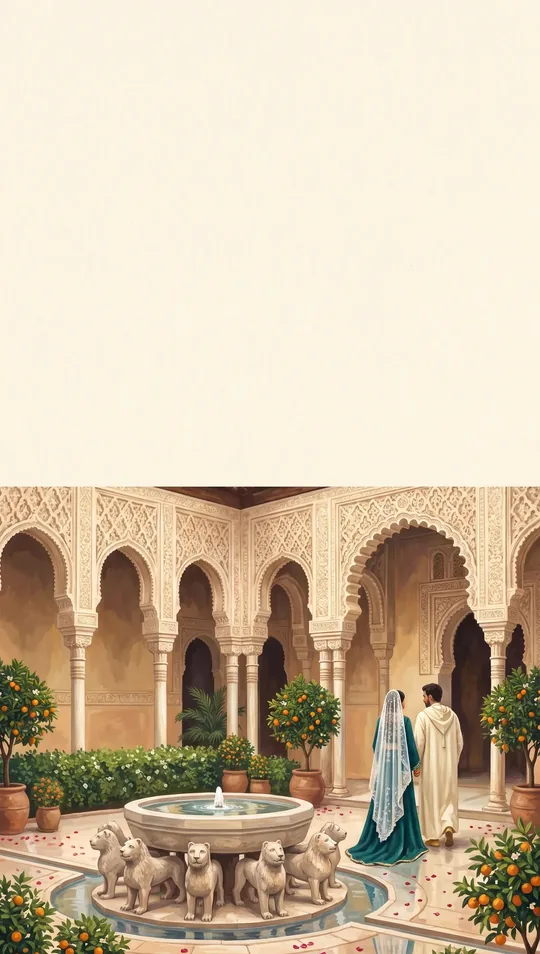
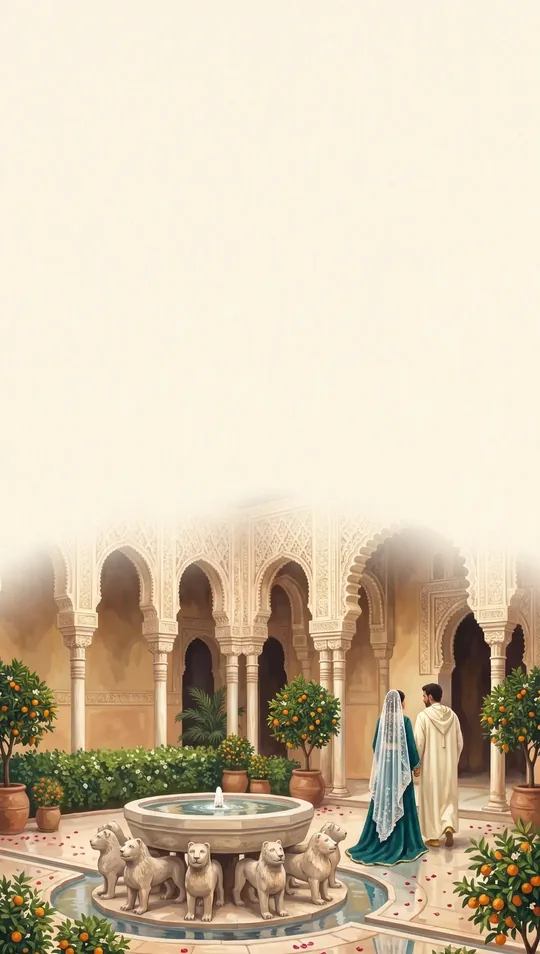
Plus de lignes droites : ciel nu derrière les calques (le jardin du fond restait fixe en bas), Andalou 2 et 4 fondues en vignette sur le papier ; Nuit du désert et Émeraude & or retirés en attendant d'être repeints ; images ?v=9 / IMGV 10
Claude-Session: https://claude.ai/code/session_01JTrQ5K3SZXLezARjbZFqsc

Changed region(s): [[0.0, 0.4864, 1.0, 0.6688]]

diff --git a/business/landing/vitrine.js b/business/landing/vitrine.js
@@ -109,7 +109,7 @@
   const CREAS=LONGS.filter(l=>KEYS.includes(l.k)).map(l=>{ const t=THEMES[l.k]; return Object.assign({},l,{kind:'long',label:t.name,desc:l.couple+' · '+l.desc,href:'/d/'+l.slug+'/',tag:t.name,font:t.font,size:t.size,italic:t.italic,upper:t.upper,stack:t.stack,img:()=>`/img/reel/long-${l.k}.webp`}); });
   // carrousel de l'accueil : un thème qui a sa démo en grand tableau y passe sous cette forme, pas deux fois
   KEYS.filter(k=>!LONGS.some(l=>l.k===k)).forEach(k=>{ const t=THEMES[k], d=DEMOS0.find(x=>x.theme===k&&x.slug!=='yasmine-karim'&&!x.kind);
-    CREAS.push(Object.assign({},t,{kind:'pages',k,label:t.name,desc:(t.style!==t.name?t.style+' · ':'')+t.short,href:d?'/d/'+d.slug+'/':'',tag:t.name,img:i=>`/img/themes/${k}-${i}.webp?v=8`})); });
+    CREAS.push(Object.assign({},t,{kind:'pages',k,label:t.name,desc:(t.style!==t.name?t.style+' · ':'')+t.short,href:d?'/d/'+d.slug+'/':'',tag:t.name,img:i=>`/img/themes/${k}-${i}.webp?v=9`})); });
   // notre faire-part reel : les vrais lieux du couple, peints et animes (demo Yasmine & Karim)
   CREAS.push({kind:'pages',k:'yk',label:'Yasmine & Karim',desc:'Leurs vrais lieux, peints et animés : mairie, salle, ville',href:'/d/yasmine-karim/',tag:'Lieux réels peints',
     couple:'Yasmine & Karim',font:'"Great Vibes",cursive',color:'#2c2114',ey:'#8a6a2c',tx:'#5a4632',light:true,img:i=>`/img/reel/yk-${i}.webp`,
@@ -155,7 +155,7 @@
   // une carte par thème, avec ses deux formats : « scène par scène » (démo pages) et « grand tableau » (démo long)
   const card=(k)=>{ const t=THEMES[k], ds=DEMOS.find(x=>x.theme===k&&x.layout!=='long'&&!x.kind), dl=DEMOS.find(x=>x.theme===k&&x.layout==='long'&&!x.kind);
     const m=document.createElement('div'); m.className='model'; m.dataset.theme=k; m.dataset.style=t.style;
-    m.innerHTML=`<a class="pic" href="/d/${esc((ds||dl).slug)}/" target="_blank" rel="noopener" aria-label="Ouvrir le faire-part ${esc(t.name)}"><img src="/img/themes/${k}-1.webp?v=8" alt="" loading="lazy"><img class="pic2" src="/img/themes/${k}-2.webp?v=8" alt="" loading="lazy" aria-hidden="true"><span class="cn" style="${esc(`font-family:${t.font};${t.italic?'font-style:italic;':''}${t.upper?'text-transform:uppercase;letter-spacing:.1em;font-size:19px;':''}`)}">${esc(t.couple)}</span></a><div class="meta"><div><h3>${esc(t.name)}</h3><p class="style">${esc(t.style+' · '+t.short)}</p></div>
+    m.innerHTML=`<a class="pic" href="/d/${esc((ds||dl).slug)}/" target="_blank" rel="noopener" aria-label="Ouvrir le faire-part ${esc(t.name)}"><img src="/img/themes/${k}-1.webp?v=9" alt="" loading="lazy"><img class="pic2" src="/img/themes/${k}-2.webp?v=9" alt="" loading="lazy" aria-hidden="true"><span class="cn" style="${esc(`font-family:${t.font};${t.italic?'font-style:italic;':''}${t.upper?'text-transform:uppercase;letter-spacing:.1em;font-size:19px;':''}`)}">${esc(t.couple)}</span></a><div class="meta"><div><h3>${esc(t.name)}</h3><p class="style">${esc(t.style+' · '+t.short)}</p></div>
       <div class="fmts">${ds?`<a href="/d/${esc(ds.slug)}/" target="_blank" rel="noopener"><b>Scène par scène</b><span>${esc(ds.couple)}</span></a>`:''}${dl?`<a href="/d/${esc(dl.slug)}/" target="_blank" rel="noopener"><b>Grand tableau</b><span>${esc(dl.couple)}</span></a>`:''}</div>
       <div class="acts"><a class="go" href="/creer/?theme=${esc(k)}">Composer →</a></div></div>`;
     models.appendChild(m); };
@@ -163,7 +163,7 @@
   // faire-part d'un seul événement (« one shot ») : le henné, le sbouâ ; chacun avec sa démo et son lien vers le configurateur
   const one=document.getElementById('oneShots');
   if(one) one.innerHTML=[['henne','Henné','L’invitation à la soirée henné, seule ou en plus du mariage.'],['sbou3','Sbouâ','La naissance de votre enfant, fêtée au septième jour.']].map(([id,nm,tx])=>{ const d=DEMOS.find(x=>x.kind===id); if(!d) return ''; const t=THEMES[d.theme];
-    return `<div class="model one"><a class="pic" href="/d/${esc(d.slug)}/" target="_blank" rel="noopener"><img src="/img/themes/${esc(d.theme)}-${id==='henne'?2:1}.webp?v=8" alt="" loading="lazy"><span class="cn" style="${esc(`font-family:${t.font};${t.italic?'font-style:italic;':''}`)}">${esc(d.couple)}</span></a>
+    return `<div class="model one"><a class="pic" href="/d/${esc(d.slug)}/" target="_blank" rel="noopener"><img src="/img/themes/${esc(d.theme)}-${id==='henne'?2:1}.webp?v=9" alt="" loading="lazy"><span class="cn" style="${esc(`font-family:${t.font};${t.italic?'font-style:italic;':''}`)}">${esc(d.couple)}</span></a>
       <div class="meta"><div><h3>${nm}</h3><p class="style">${esc(t.name)} · un seul événement</p><p>${tx}</p></div></div>
       <div class="fmts"><a href="/d/${esc(d.slug)}/" target="_blank" rel="noopener"><b>Voir l’exemple</b><span>${esc(d.couple)}</span></a></div>
       <div class="acts"><a class="go" href="/creer/?occasion=${id}&theme=${esc(d.theme)}">Composer →</a></div></div>`; }).join('');
@@ -220,7 +220,7 @@
   opt($('cOpen'),OPENS,'op','',(b,o)=>{ b.className='op-card'; b.innerHTML=`<b>${o.name}</b><small>${o.sub}</small>`; });
   opt($('cReveal'),REVEALS,'rvl','',(b,o)=>{ b.className='op-card'; b.innerHTML=`<b>${o.name}</b><small>${o.sub}</small>`; });
   $('cReveal').addEventListener('click',e=>{ if(e.target.closest('button')) $('cpScroll').scrollTo({top:0,behavior:'smooth'}); });
-  opt($('cStyles'),CK,'k','',(b,k)=>{ const t=THEMES[k]; b.className='th'; b.innerHTML=`<span style="background-image:url('/img/themes/${k}-1.webp?v=8')"></span>${esc(t.name)}${t.variant?`<small>${esc(t.variant)}</small>`:''}`; });
+  opt($('cStyles'),CK,'k','',(b,k)=>{ const t=THEMES[k]; b.className='th'; b.innerHTML=`<span style="background-image:url('/img/themes/${k}-1.webp?v=9')"></span>${esc(t.name)}${t.variant?`<small>${esc(t.variant)}</small>`:''}`; });
   // les deux formats, annoncés dès le début : scène par scène (un événement par écran) ou grand tableau (un seul tableau qu'on descend)
   const FMTS=[{id:'scenes',name:'Scène par scène',sub:'Un événement par écran, vos lieux en plein écran'},{id:'long',name:'Grand tableau',sub:'Un seul tableau qu’on descend, vos lieux dans des cadres peints'}];
   // le format se choisit à l'étape des écrans : c'est là qu'on décide quoi mettre. Visuels entiers, jamais rognés :
@@ -389,12 +389,12 @@
       $('fldReveal').hidden=long;
       document.querySelectorAll('#cStory [data-bg="scene"]').forEach(b=>b.innerHTML=long?'Un lieu<small>Dans le cadre</small>':'Scène<small>Votre lieu dessiné</small>'); }
     $('cFmt').querySelectorAll('button').forEach(b=>{ const v=b.firstChild, key=b.dataset.id+C.k; if(v.dataset.k===key) return; v.dataset.k=key;
-      v.innerHTML=b.dataset.id==='long'?`<i class="roll" style="background-image:url('/img/long/${C.k}/thumb.webp')"></i>`:[1,2,4].map(n=>`<i style="background-image:url('/img/themes/${C.k}-${n}.webp?v=8')"></i>`).join(''); });
+      v.innerHTML=b.dataset.id==='long'?`<i class="roll" style="background-image:url('/img/long/${C.k}/thumb.webp')"></i>`:[1,2,4].map(n=>`<i style="background-image:url('/img/themes/${C.k}-${n}.webp?v=9')"></i>`).join(''); });
     $('cStoryT').textContent=C.fmt==='long'?'Le tableau, de haut en bas':'Vos écrans, dans l’ordre';
     $('cStory').querySelectorAll('li.ev').forEach(l=>{ const e=C.ev[+l.dataset.i];
       l.querySelectorAll('[data-bg]').forEach(b=>b.setAttribute('aria-pressed',b.dataset.bg===e.bg));
       l.querySelector('.lieux').hidden=e.bg!=='scene';
-      l.querySelectorAll('[data-lieu]').forEach(b=>{ b.setAttribute('aria-pressed',b.dataset.lieu===e.lieu); b.firstChild.style.backgroundImage=b.dataset.lieu==='s2'?`url('/img/themes/${C.k}-2.webp?v=8')`:`url('/img/lieux/${C.k}-${b.dataset.lieu==='photo'?'mairie':b.dataset.lieu}.webp')`; }); });
+      l.querySelectorAll('[data-lieu]').forEach(b=>{ b.setAttribute('aria-pressed',b.dataset.lieu===e.lieu); b.firstChild.style.backgroundImage=b.dataset.lieu==='s2'?`url('/img/themes/${C.k}-2.webp?v=9')`:`url('/img/lieux/${C.k}-${b.dataset.lieu==='photo'?'mairie':b.dataset.lieu}.webp')`; }); });
     $('cAddEv').hidden=C.ev.length>=6||C.occ!=='mariage';
     $('cpTint').style.background=p.c;
     const n1=nm1(), n2=nm2(), solo=isSolo(), oneShot=C.occ!=='mariage';
@@ -425,8 +425,8 @@
       // un numéro = scène du thème ; un nom = lieu de la bibliothèque, ou « fond » pour un écran simple
       // calque : le sujet détouré est posé entier au bas de l'écran sur le fond du thème (même rendu que le moteur)
       const hasCal=((window.SCEAU_CALQUES||{})[C.k]||[]).includes(String(img));
-      const src=hasCal?`/img/lieux/${C.k}-fond.webp`:typeof img==='number'?`/img/themes/${C.k}-${img}.webp?v=8`:`/img/lieux/${C.k}-${img}.webp`;
-      const sub=hasCal?`/img/calques/${C.k}-${img}.webp?v=8`:'';
+      const src=hasCal?`/img/lieux/${C.k}-ciel.webp`:typeof img==='number'?`/img/themes/${C.k}-${img}.webp?v=9`:`/img/lieux/${C.k}-${img}.webp`;
+      const sub=hasCal?`/img/calques/${C.k}-${img}.webp?v=9`:'';
       return {lt,c,html:h=>`<section class="pv-sc${lt?' light':''}" data-img="${esc(src)}" data-sub="${esc(sub)}" style="${esc(extra||'')}">${h(c)}</section>`}; };
     // boutons de l'aperçu : même pastille que le faire-part (invite.css .b), icône dans un médaillon à la couleur choisie
     const BT_IC={pin:'<svg viewBox="0 0 24 24" fill="none" stroke="currentColor" stroke-width="1.6"><path d="M12 21s7-6.1 7-11.5A7 7 0 0 0 5 9.5C5 14.9 12 21 12 21z"/><circle cx="12" cy="9.5" r="2.5"/></svg>',mail:'<svg viewBox="0 0 24 24" fill="none" stroke="currentColor" stroke-width="1.6"><rect x="3" y="5.5" width="18" height="13" rx="1.5"/><path d="m3.5 6.5 8.5 6.5 8.5-6.5"/></svg>',gift:'<svg viewBox="0 0 24 24" fill="none" stroke="currentColor" stroke-width="1.6"><rect x="4" y="9" width="16" height="11" rx="1"/><path d="M3 9h18M12 9v11M12 9c-2-4-6-4-6-1.5S10 9 12 9zm0 0c2-4 6-4 6-1.5S14 9 12 9z"/></svg>',cam:'<svg viewBox="0 0 24 24" fill="none" stroke="currentColor" stroke-width="1.6"><path d="M4 8h3l2-2.5h6L17 8h3v11H4z"/><circle cx="12" cy="13" r="3.5"/></svg>'};
@@ -469,7 +469,7 @@
     cpRuns=[]; [...sc.querySelectorAll('.pv-sc')].forEach((s,i)=>{ const r=cpRuns[cpRuns.length-1]; if(r&&r.img===s.dataset.img&&r.sub===(s.dataset.sub||'')) r.b=i; else cpRuns.push({img:s.dataset.img,sub:s.dataset.sub||'',a:i,b:i}); });
     $('cpBgs').innerHTML=cpRuns.map(r=>r.sub?`<div class="cp-bg cal"><i><img class="sub" src="${esc(r.sub)}" alt=""></i></div>`:`<div class="cp-bg"><i style="background-image:url('${esc(r.img)}');--img:url('${esc(r.img)}')"></i></div>`).join('');
     // calques : le fond du thème est peint une fois derrière tout (comme .sc.cal dans invite.css)
-    const anyCal=cpRuns.some(r=>r.sub); sc.classList.toggle('cal',anyCal); sc.style.backgroundImage=anyCal?`url('/img/lieux/${C.k}-fond.webp')`:'';
+    const anyCal=cpRuns.some(r=>r.sub); sc.classList.toggle('cal',anyCal); sc.style.backgroundImage=anyCal?`url('/img/lieux/${C.k}-ciel.webp')`:''; // le ciel nu (tools/ciel.py), pas le fond et son jardin
     cpLayout();
     // grand tableau : l'aperçu est le vrai faire-part (invite.js) construit avec vos choix, dans le téléphone
     sc.hidden=C.fmt==='long';

diff --git a/business/site/vitrine.js b/business/site/vitrine.js
@@ -109,7 +109,7 @@
   const CREAS=LONGS.filter(l=>KEYS.includes(l.k)).map(l=>{ const t=THEMES[l.k]; return Object.assign({},l,{kind:'long',label:t.name,desc:l.couple+' · '+l.desc,href:'/d/'+l.slug+'/',tag:t.name,font:t.font,size:t.size,italic:t.italic,upper:t.upper,stack:t.stack,img:()=>`/img/reel/long-${l.k}.webp`}); });
   // carrousel de l'accueil : un thème qui a sa démo en grand tableau y passe sous cette forme, pas deux fois
   KEYS.filter(k=>!LONGS.some(l=>l.k===k)).forEach(k=>{ const t=THEMES[k], d=DEMOS0.find(x=>x.theme===k&&x.slug!=='yasmine-karim'&&!x.kind);
-    CREAS.push(Object.assign({},t,{kind:'pages',k,label:t.name,desc:(t.style!==t.name?t.style+' · ':'')+t.short,href:d?'/d/'+d.slug+'/':'',tag:t.name,img:i=>`/img/themes/${k}-${i}.webp?v=8`})); });
+    CREAS.push(Object.assign({},t,{kind:'pages',k,label:t.name,desc:(t.style!==t.name?t.style+' · ':'')+t.short,href:d?'/d/'+d.slug+'/':'',tag:t.name,img:i=>`/img/themes/${k}-${i}.webp?v=9`})); });
   // notre faire-part reel : les vrais lieux du couple, peints et animes (demo Yasmine & Karim)
   CREAS.push({kind:'pages',k:'yk',label:'Yasmine & Karim',desc:'Leurs vrais lieux, peints et animés : mairie, salle, ville',href:'/d/yasmine-karim/',tag:'Lieux réels peints',
     couple:'Yasmine & Karim',font:'"Great Vibes",cursive',color:'#2c2114',ey:'#8a6a2c',tx:'#5a4632',light:true,img:i=>`/img/reel/yk-${i}.webp`,
@@ -155,7 +155,7 @@
   // une carte par thème, avec ses deux formats : « scène par scène » (démo pages) et « grand tableau » (démo long)
   const card=(k)=>{ const t=THEMES[k], ds=DEMOS.find(x=>x.theme===k&&x.layout!=='long'&&!x.kind), dl=DEMOS.find(x=>x.theme===k&&x.layout==='long'&&!x.kind);
     const m=document.createElement('div'); m.className='model'; m.dataset.theme=k; m.dataset.style=t.style;
-    m.innerHTML=`<a class="pic" href="/d/${esc((ds||dl).slug)}/" target="_blank" rel="noopener" aria-label="Ouvrir le faire-part ${esc(t.name)}"><img src="/img/themes/${k}-1.webp?v=8" alt="" loading="lazy"><img class="pic2" src="/img/themes/${k}-2.webp?v=8" alt="" loading="lazy" aria-hidden="true"><span class="cn" style="${esc(`font-family:${t.font};${t.italic?'font-style:italic;':''}${t.upper?'text-transform:uppercase;letter-spacing:.1em;font-size:19px;':''}`)}">${esc(t.couple)}</span></a><div class="meta"><div><h3>${esc(t.name)}</h3><p class="style">${esc(t.style+' · '+t.short)}</p></div>
+    m.innerHTML=`<a class="pic" href="/d/${esc((ds||dl).slug)}/" target="_blank" rel="noopener" aria-label="Ouvrir le faire-part ${esc(t.name)}"><img src="/img/themes/${k}-1.webp?v=9" alt="" loading="lazy"><img class="pic2" src="/img/themes/${k}-2.webp?v=9" alt="" loading="lazy" aria-hidden="true"><span class="cn" style="${esc(`font-family:${t.font};${t.italic?'font-style:italic;':''}${t.upper?'text-transform:uppercase;letter-spacing:.1em;font-size:19px;':''}`)}">${esc(t.couple)}</span></a><div class="meta"><div><h3>${esc(t.name)}</h3><p class="style">${esc(t.style+' · '+t.short)}</p></div>
       <div class="fmts">${ds?`<a href="/d/${esc(ds.slug)}/" target="_blank" rel="noopener"><b>Scène par scène</b><span>${esc(ds.couple)}</span></a>`:''}${dl?`<a href="/d/${esc(dl.slug)}/" target="_blank" rel="noopener"><b>Grand tableau</b><span>${esc(dl.couple)}</span></a>`:''}</div>
       <div class="acts"><a class="go" href="/creer/?theme=${esc(k)}">Composer →</a></div></div>`;
     models.appendChild(m); };
@@ -163,7 +163,7 @@
   // faire-part d'un seul événement (« one shot ») : le henné, le sbouâ ; chacun avec sa démo et son lien vers le configurateur
   const one=document.getElementById('oneShots');
   if(one) one.innerHTML=[['henne','Henné','L’invitation à la soirée henné, seule ou en plus du mariage.'],['sbou3','Sbouâ','La naissance de votre enfant, fêtée au septième jour.']].map(([id,nm,tx])=>{ const d=DEMOS.find(x=>x.kind===id); if(!d) return ''; const t=THEMES[d.theme];
-    return `<div class="model one"><a class="pic" href="/d/${esc(d.slug)}/" target="_blank" rel="noopener"><img src="/img/themes/${esc(d.theme)}-${id==='henne'?2:1}.webp?v=8" alt="" loading="lazy"><span class="cn" style="${esc(`font-family:${t.font};${t.italic?'font-style:italic;':''}`)}">${esc(d.couple)}</span></a>
+    return `<div class="model one"><a class="pic" href="/d/${esc(d.slug)}/" target="_blank" rel="noopener"><img src="/img/themes/${esc(d.theme)}-${id==='henne'?2:1}.webp?v=9" alt="" loading="lazy"><span class="cn" style="${esc(`font-family:${t.font};${t.italic?'font-style:italic;':''}`)}">${esc(d.couple)}</span></a>
       <div class="meta"><div><h3>${nm}</h3><p class="style">${esc(t.name)} · un seul événement</p><p>${tx}</p></div></div>
       <div class="fmts"><a href="/d/${esc(d.slug)}/" target="_blank" rel="noopener"><b>Voir l’exemple</b><span>${esc(d.couple)}</span></a></div>
       <div class="acts"><a class="go" href="/creer/?occasion=${id}&theme=${esc(d.theme)}">Composer →</a></div></div>`; }).join('');
@@ -220,7 +220,7 @@
   opt($('cOpen'),OPENS,'op','',(b,o)=>{ b.className='op-card'; b.innerHTML=`<b>${o.name}</b><small>${o.sub}</small>`; });
   opt($('cReveal'),REVEALS,'rvl','',(b,o)=>{ b.className='op-card'; b.innerHTML=`<b>${o.name}</b><small>${o.sub}</small>`; });
   $('cReveal').addEventListener('click',e=>{ if(e.target.closest('button')) $('cpScroll').scrollTo({top:0,behavior:'smooth'}); });
-  opt($('cStyles'),CK,'k','',(b,k)=>{ const t=THEMES[k]; b.className='th'; b.innerHTML=`<span style="background-image:url('/img/themes/${k}-1.webp?v=8')"></span>${esc(t.name)}${t.variant?`<small>${esc(t.variant)}</small>`:''}`; });
+  opt($('cStyles'),CK,'k','',(b,k)=>{ const t=THEMES[k]; b.className='th'; b.innerHTML=`<span style="background-image:url('/img/themes/${k}-1.webp?v=9')"></span>${esc(t.name)}${t.variant?`<small>${esc(t.variant)}</small>`:''}`; });
   // les deux formats, annoncés dès le début : scène par scène (un événement par écran) ou grand tableau (un seul tableau qu'on descend)
   const FMTS=[{id:'scenes',name:'Scène par scène',sub:'Un événement par écran, vos lieux en plein écran'},{id:'long',name:'Grand tableau',sub:'Un seul tableau qu’on descend, vos lieux dans des cadres peints'}];
   // le format se choisit à l'étape des écrans : c'est là qu'on décide quoi mettre. Visuels entiers, jamais rognés :
@@ -389,12 +389,12 @@
       $('fldReveal').hidden=long;
       document.querySelectorAll('#cStory [data-bg="scene"]').forEach(b=>b.innerHTML=long?'Un lieu<small>Dans le cadre</small>':'Scène<small>Votre lieu dessiné</small>'); }
     $('cFmt').querySelectorAll('button').forEach(b=>{ const v=b.firstChild, key=b.dataset.id+C.k; if(v.dataset.k===key) return; v.dataset.k=key;
-      v.innerHTML=b.dataset.id==='long'?`<i class="roll" style="background-image:url('/img/long/${C.k}/thumb.webp')"></i>`:[1,2,4].map(n=>`<i style="background-image:url('/img/themes/${C.k}-${n}.webp?v=8')"></i>`).join(''); });
+      v.innerHTML=b.dataset.id==='long'?`<i class="roll" style="background-image:url('/img/long/${C.k}/thumb.webp')"></i>`:[1,2,4].map(n=>`<i style="background-image:url('/img/themes/${C.k}-${n}.webp?v=9')"></i>`).join(''); });
     $('cStoryT').textContent=C.fmt==='long'?'Le tableau, de haut en bas':'Vos écrans, dans l’ordre';
     $('cStory').querySelectorAll('li.ev').forEach(l=>{ const e=C.ev[+l.dataset.i];
       l.querySelectorAll('[data-bg]').forEach(b=>b.setAttribute('aria-pressed',b.dataset.bg===e.bg));
       l.querySelector('.lieux').hidden=e.bg!=='scene';
-      l.querySelectorAll('[data-lieu]').forEach(b=>{ b.setAttribute('aria-pressed',b.dataset.lieu===e.lieu); b.firstChild.style.backgroundImage=b.dataset.lieu==='s2'?`url('/img/themes/${C.k}-2.webp?v=8')`:`url('/img/lieux/${C.k}-${b.dataset.lieu==='photo'?'mairie':b.dataset.lieu}.webp')`; }); });
+      l.querySelectorAll('[data-lieu]').forEach(b=>{ b.setAttribute('aria-pressed',b.dataset.lieu===e.lieu); b.firstChild.style.backgroundImage=b.dataset.lieu==='s2'?`url('/img/themes/${C.k}-2.webp?v=9')`:`url('/img/lieux/${C.k}-${b.dataset.lieu==='photo'?'mairie':b.dataset.lieu}.webp')`; }); });
     $('cAddEv').hidden=C.ev.length>=6||C.occ!=='mariage';
     $('cpTint').style.background=p.c;
     const n1=nm1(), n2=nm2(), solo=isSolo(), oneShot=C.occ!=='mariage';
@@ -425,8 +425,8 @@
       // un numéro = scène du thème ; un nom = lieu de la bibliothèque, ou « fond » pour un écran simple
       // calque : le sujet détouré est posé entier au bas de l'écran sur le fond du thème (même rendu que le moteur)
       const hasCal=((window.SCEAU_CALQUES||{})[C.k]||[]).includes(String(img));
-      const src=hasCal?`/img/lieux/${C.k}-fond.webp`:typeof img==='number'?`/img/themes/${C.k}-${img}.webp?v=8`:`/img/lieux/${C.k}-${img}.webp`;
-      const sub=hasCal?`/img/calques/${C.k}-${img}.webp?v=8`:'';
+      const src=hasCal?`/img/lieux/${C.k}-ciel.webp`:typeof img==='number'?`/img/themes/${C.k}-${img}.webp?v=9`:`/img/lieux/${C.k}-${img}.webp`;
+      const sub=hasCal?`/img/calques/${C.k}-${img}.webp?v=9`:'';
       return {lt,c,html:h=>`<section class="pv-sc${lt?' light':''}" data-img="${esc(src)}" data-sub="${esc(sub)}" style="${esc(extra||'')}">${h(c)}</section>`}; };
     // boutons de l'aperçu : même pastille que le faire-part (invite.css .b), icône dans un médaillon à la couleur choisie
     const BT_IC={pin:'<svg viewBox="0 0 24 24" fill="none" stroke="currentColor" stroke-width="1.6"><path d="M12 21s7-6.1 7-11.5A7 7 0 0 0 5 9.5C5 14.9 12 21 12 21z"/><circle cx="12" cy="9.5" r="2.5"/></svg>',mail:'<svg viewBox="0 0 24 24" fill="none" stroke="currentColor" stroke-width="1.6"><rect x="3" y="5.5" width="18" height="13" rx="1.5"/><path d="m3.5 6.5 8.5 6.5 8.5-6.5"/></svg>',gift:'<svg viewBox="0 0 24 24" fill="none" stroke="currentColor" stroke-width="1.6"><rect x="4" y="9" width="16" height="11" rx="1"/><path d="M3 9h18M12 9v11M12 9c-2-4-6-4-6-1.5S10 9 12 9zm0 0c2-4 6-4 6-1.5S14 9 12 9z"/></svg>',cam:'<svg viewBox="0 0 24 24" fill="none" stroke="currentColor" stroke-width="1.6"><path d="M4 8h3l2-2.5h6L17 8h3v11H4z"/><circle cx="12" cy="13" r="3.5"/></svg>'};
@@ -469,7 +469,7 @@
     cpRuns=[]; [...sc.querySelectorAll('.pv-sc')].forEach((s,i)=>{ const r=cpRuns[cpRuns.length-1]; if(r&&r.img===s.dataset.img&&r.sub===(s.dataset.sub||'')) r.b=i; else cpRuns.push({img:s.dataset.img,sub:s.dataset.sub||'',a:i,b:i}); });
     $('cpBgs').innerHTML=cpRuns.map(r=>r.sub?`<div class="cp-bg cal"><i><img class="sub" src="${esc(r.sub)}" alt=""></i></div>`:`<div class="cp-bg"><i style="background-image:url('${esc(r.img)}');--img:url('${esc(r.img)}')"></i></div>`).join('');
     // calques : le fond du thème est peint une fois derrière tout (comme .sc.cal dans invite.css)
-    const anyCal=cpRuns.some(r=>r.sub); sc.classList.toggle('cal',anyCal); sc.style.backgroundImage=anyCal?`url('/img/lieux/${C.k}-fond.webp')`:'';
+    const anyCal=cpRuns.some(r=>r.sub); sc.classList.toggle('cal',anyCal); sc.style.backgroundImage=anyCal?`url('/img/lieux/${C.k}-ciel.webp')`:''; // le ciel nu (tools/ciel.py), pas le fond et son jardin
     cpLayout();
     // grand tableau : l'aperçu est le vrai faire-part (invite.js) construit avec vos choix, dans le téléphone
     sc.hidden=C.fmt==='long';

diff --git a/business/landing/themes.js b/business/landing/themes.js
@@ -75,14 +75,15 @@ Object.assign(window.SCEAU_THEMES,{
     font:'"Amiri",serif',color:"#5b2a1c",ey:"#7a4a26",tx:"#5a3a28",size:.8,gf:"Amiri",music:"scheherazade",particles:"none",mono:["#5b2a1c","0 1px 0 rgba(255,255,255,.7),0 2px 8px rgba(255,255,255,.5)"],
     scenes:[["Bismillah","NAMES","Samedi 4 septembre 2027"],["La cérémonie","Au palais","15h00 · Cour des orangers","Itinéraire"],["Le dîner","Sous les arcades","Dès 19h30","Itinéraire"],["Réponse souhaitée","Serez-vous des nôtres ?","Avant le 1er août","Répondre"]]},
   /* en attente d'images (quota Gemini) : pending:true le garde hors du configurateur et de la galerie.
+     Nuit du désert et Émeraude & or aussi (5 octobre 2026, « pas encore propre ») : scènes coupées droit à repeindre.
      Générer avec business/tools/theme-nuits.sh maghreb, puis retirer pending et passer launch:true. */
   maghreb:{pals:[{name:"Bleu Majorelle",c:"#2d4fa3",seal:"nuit"},{name:"Vert zellige",c:"#2f7a5f",seal:"emeraude"},{name:"Terracotta",c:"#b0562f",seal:"terracotta"}],name:"Maghrébin",family:"nuits",variant:"Médina blanche et bleue",pending:true,style:"Peinture",short:"Médina blanche, portes bleues, zellige",desc:"Une médina blanchie à la chaux, portes bleues cloutées, zellige et bougainvilliers : le Maghreb, de Chefchaouen à Sidi Bou Saïd.",couple:"Nour & Walid",light:true,
     font:'"DM Serif Display",Georgia,serif',color:"#1d3f73",ey:"#2f5c9a",tx:"#2c3a55",size:.86,gf:"DM+Serif+Display",music:"scheherazade",particles:"none",mono:["#1d3f73","0 1px 0 rgba(255,255,255,.7),0 2px 8px rgba(255,255,255,.5)"],
     scenes:[["Bismillah","NAMES","Samedi 21 août 2027"],["Le henné","Vendredi soir","20h00 · Dans la cour","Itinéraire"],["La cérémonie","Dans la médina","Samedi 16h00","Itinéraire"],["Réponse souhaitée","Serez-vous des nôtres ?","Avant le 15 juillet","Répondre"]]},
-  desert:{pals:[{name:"Ocre des dunes",c:"#c27a2c",seal:"terracotta"},{name:"Indigo",c:"#2f3a78",seal:"nuit"},{name:"Or",c:"#c9a35a",seal:"or"}],name:"Nuit du désert",family:"nuits",variant:"Dunes et tente caïdale",launch:true,style:"Peinture",short:"Dunes, tente caïdale, lanternes",desc:"Les dunes sous les étoiles, une tente caïdale et des lanternes posées sur le sable.",couple:"Amira & Youssef",
+  desert:{pals:[{name:"Ocre des dunes",c:"#c27a2c",seal:"terracotta"},{name:"Indigo",c:"#2f3a78",seal:"nuit"},{name:"Or",c:"#c9a35a",seal:"or"}],name:"Nuit du désert",family:"nuits",variant:"Dunes et tente caïdale",pending:true,style:"Peinture",short:"Dunes, tente caïdale, lanternes",desc:"Les dunes sous les étoiles, une tente caïdale et des lanternes posées sur le sable.",couple:"Amira & Youssef",
     font:'"Cinzel",serif',color:"#f6e7c8",upper:true,size:.74,gf:"Cinzel",music:"scheherazade",particles:"none",
     scenes:[["Bismillah","NAMES","Samedi 18 septembre 2027"],["Le henné","Vendredi soir","20h00 · Sous la tente","Itinéraire"],["La cérémonie","Dans les dunes","Samedi 17h00","Itinéraire"],["La fête","Serez-vous des nôtres ?","Samedi, dès 20h","Répondre"]]},
-  emeraude:{pals:[{name:"Émeraude",c:"#1f6b52",seal:"emeraude"},{name:"Or",c:"#c9a24d",seal:"or"},{name:"Bordeaux",c:"#7a2e3b",seal:"bordeaux"}],name:"Émeraude & or",family:"nuits",variant:"Cour de palais",launch:true,style:"Peinture",short:"Velours émeraude, or, lanternes ciselées",desc:"Une cour de palais sous la nuit, velours émeraude et or, lanternes ciselées et plateaux de cuivre. Le faste d'une grande réception.",couple:"Myriam & Bilal",
+  emeraude:{pals:[{name:"Émeraude",c:"#1f6b52",seal:"emeraude"},{name:"Or",c:"#c9a24d",seal:"or"},{name:"Bordeaux",c:"#7a2e3b",seal:"bordeaux"}],name:"Émeraude & or",family:"nuits",variant:"Cour de palais",pending:true,style:"Peinture",short:"Velours émeraude, or, lanternes ciselées",desc:"Une cour de palais sous la nuit, velours émeraude et or, lanternes ciselées et plateaux de cuivre. Le faste d'une grande réception.",couple:"Myriam & Bilal",
     font:'"Playfair Display",Georgia,serif',italic:true,color:"#f6e3ae",size:.86,gf:"Playfair+Display:ital@0;1",music:"scheherazade",particles:"none",
     scenes:[["Bismillah","NAMES","Samedi 9 octobre 2027"],["Le nikah","En famille","15h00 · Chez les parents de la mariée","Itinéraire"],["La réception","Au palais","Dès 19h30","Itinéraire"],["Réponse souhaitée","Serez-vous des nôtres ?","Avant le 1er septembre","Répondre"]]}
 });

diff --git a/business/site/themes.js b/business/site/themes.js
@@ -75,14 +75,15 @@ Object.assign(window.SCEAU_THEMES,{
     font:'"Amiri",serif',color:"#5b2a1c",ey:"#7a4a26",tx:"#5a3a28",size:.8,gf:"Amiri",music:"scheherazade",particles:"none",mono:["#5b2a1c","0 1px 0 rgba(255,255,255,.7),0 2px 8px rgba(255,255,255,.5)"],
     scenes:[["Bismillah","NAMES","Samedi 4 septembre 2027"],["La cérémonie","Au palais","15h00 · Cour des orangers","Itinéraire"],["Le dîner","Sous les arcades","Dès 19h30","Itinéraire"],["Réponse souhaitée","Serez-vous des nôtres ?","Avant le 1er août","Répondre"]]},
   /* en attente d'images (quota Gemini) : pending:true le garde hors du configurateur et de la galerie.
+     Nuit du désert et Émeraude & or aussi (5 octobre 2026, « pas encore propre ») : scènes coupées droit à repeindre.
      Générer avec business/tools/theme-nuits.sh maghreb, puis retirer pending et passer launch:true. */
   maghreb:{pals:[{name:"Bleu Majorelle",c:"#2d4fa3",seal:"nuit"},{name:"Vert zellige",c:"#2f7a5f",seal:"emeraude"},{name:"Terracotta",c:"#b0562f",seal:"terracotta"}],name:"Maghrébin",family:"nuits",variant:"Médina blanche et bleue",pending:true,style:"Peinture",short:"Médina blanche, portes bleues, zellige",desc:"Une médina blanchie à la chaux, portes bleues cloutées, zellige et bougainvilliers : le Maghreb, de Chefchaouen à Sidi Bou Saïd.",couple:"Nour & Walid",light:true,
     font:'"DM Serif Display",Georgia,serif',color:"#1d3f73",ey:"#2f5c9a",tx:"#2c3a55",size:.86,gf:"DM+Serif+Display",music:"scheherazade",particles:"none",mono:["#1d3f73","0 1px 0 rgba(255,255,255,.7),0 2px 8px rgba(255,255,255,.5)"],
     scenes:[["Bismillah","NAMES","Samedi 21 août 2027"],["Le henné","Vendredi soir","20h00 · Dans la cour","Itinéraire"],["La cérémonie","Dans la médina","Samedi 16h00","Itinéraire"],["Réponse souhaitée","Serez-vous des nôtres ?","Avant le 15 juillet","Répondre"]]},
-  desert:{pals:[{name:"Ocre des dunes",c:"#c27a2c",seal:"terracotta"},{name:"Indigo",c:"#2f3a78",seal:"nuit"},{name:"Or",c:"#c9a35a",seal:"or"}],name:"Nuit du désert",family:"nuits",variant:"Dunes et tente caïdale",launch:true,style:"Peinture",short:"Dunes, tente caïdale, lanternes",desc:"Les dunes sous les étoiles, une tente caïdale et des lanternes posées sur le sable.",couple:"Amira & Youssef",
+  desert:{pals:[{name:"Ocre des dunes",c:"#c27a2c",seal:"terracotta"},{name:"Indigo",c:"#2f3a78",seal:"nuit"},{name:"Or",c:"#c9a35a",seal:"or"}],name:"Nuit du désert",family:"nuits",variant:"Dunes et tente caïdale",pending:true,style:"Peinture",short:"Dunes, tente caïdale, lanternes",desc:"Les dunes sous les étoiles, une tente caïdale et des lanternes posées sur le sable.",couple:"Amira & Youssef",
     font:'"Cinzel",serif',color:"#f6e7c8",upper:true,size:.74,gf:"Cinzel",music:"scheherazade",particles:"none",
     scenes:[["Bismillah","NAMES","Samedi 18 septembre 2027"],["Le henné","Vendredi soir","20h00 · Sous la tente","Itinéraire"],["La cérémonie","Dans les dunes","Samedi 17h00","Itinéraire"],["La fête","Serez-vous des nôtres ?","Samedi, dès 20h","Répondre"]]},
-  emeraude:{pals:[{name:"Émeraude",c:"#1f6b52",seal:"emeraude"},{name:"Or",c:"#c9a24d",seal:"or"},{name:"Bordeaux",c:"#7a2e3b",seal:"bordeaux"}],name:"Émeraude & or",family:"nuits",variant:"Cour de palais",launch:true,style:"Peinture",short:"Velours émeraude, or, lanternes ciselées",desc:"Une cour de palais sous la nuit, velours émeraude et or, lanternes ciselées et plateaux de cuivre. Le faste d'une grande réception.",couple:"Myriam & Bilal",
+  emeraude:{pals:[{name:"Émeraude",c:"#1f6b52",seal:"emeraude"},{name:"Or",c:"#c9a24d",seal:"or"},{name:"Bordeaux",c:"#7a2e3b",seal:"bordeaux"}],name:"Émeraude & or",family:"nuits",variant:"Cour de palais",pending:true,style:"Peinture",short:"Velours émeraude, or, lanternes ciselées",desc:"Une cour de palais sous la nuit, velours émeraude et or, lanternes ciselées et plateaux de cuivre. Le faste d'une grande réception.",couple:"Myriam & Bilal",
     font:'"Playfair Display",Georgia,serif',italic:true,color:"#f6e3ae",size:.86,gf:"Playfair+Display:ital@0;1",music:"scheherazade",particles:"none",
     scenes:[["Bismillah","NAMES","Samedi 9 octobre 2027"],["Le nikah","En famille","15h00 · Chez les parents de la mariée","Itinéraire"],["La réception","Au palais","Dès 19h30","Itinéraire"],["Réponse souhaitée","Serez-vous des nôtres ?","Avant le 1er septembre","Répondre"]]}
 });

diff --git a/business/landing/invite.js b/business/landing/invite.js
@@ -84,10 +84,10 @@
   const base=up?30:/Limelight|Cinzel/.test(fam1)?38:52;
   const nmCss=(k,col)=>`font-family:${fam1};font-style:${ital?'italic':'normal'};text-transform:${up?'uppercase':'none'};letter-spacing:${up?'.12em':'0'};font-weight:${up?300:400};font-size:clamp(${Math.round(base*k*.72)}px,${(base*k/16.5).toFixed(2)}vh,${Math.round(base*k*1.1)}px);color:${col}`;
   // ?v= : à augmenter quand on remplace des décors, pour que les navigateurs ne gardent pas l'ancienne image
-  const IMGV=9, img=n=>`/img/hd/${I.theme}-${n}.webp?v=${IMGV}`;
+  const IMGV=10, img=n=>`/img/hd/${I.theme}-${n}.webp?v=${IMGV}`;
   // calques : pour les scènes qui en ont (build-site.py liste img/calques/<thème>-<n>.webp), le décor est le fond calme du
   // thème et le sujet détouré est posé ENTIER en bas de l'écran (plus de rognage selon le téléphone), avec un peu de profondeur
-  const CAL=new Set(I.calques||[]), hasCal=n=>CAL.has(String(n)), fond=`/img/hd/${I.theme}-fond.webp?v=${IMGV}`, cal=n=>`/img/calques/${I.theme}-${n}.webp?v=${IMGV}`;
+  const CAL=new Set(I.calques||[]), hasCal=n=>CAL.has(String(n)), fond=`/img/hd/${I.theme}-ciel.webp?v=${IMGV}`, cal=n=>`/img/calques/${I.theme}-${n}.webp?v=${IMGV}`;
   const isDark=n=>(T.scenes[n-1]||[])[4]==='dark';
 
   /* ---------- icônes ---------- */

diff --git a/business/site/invite.js b/business/site/invite.js
@@ -84,10 +84,10 @@
   const base=up?30:/Limelight|Cinzel/.test(fam1)?38:52;
   const nmCss=(k,col)=>`font-family:${fam1};font-style:${ital?'italic':'normal'};text-transform:${up?'uppercase':'none'};letter-spacing:${up?'.12em':'0'};font-weight:${up?300:400};font-size:clamp(${Math.round(base*k*.72)}px,${(base*k/16.5).toFixed(2)}vh,${Math.round(base*k*1.1)}px);color:${col}`;
   // ?v= : à augmenter quand on remplace des décors, pour que les navigateurs ne gardent pas l'ancienne image
-  const IMGV=9, img=n=>`/img/hd/${I.theme}-${n}.webp?v=${IMGV}`;
+  const IMGV=10, img=n=>`/img/hd/${I.theme}-${n}.webp?v=${IMGV}`;
   // calques : pour les scènes qui en ont (build-site.py liste img/calques/<thème>-<n>.webp), le décor est le fond calme du
   // thème et le sujet détouré est posé ENTIER en bas de l'écran (plus de rognage selon le téléphone), avec un peu de profondeur
-  const CAL=new Set(I.calques||[]), hasCal=n=>CAL.has(String(n)), fond=`/img/hd/${I.theme}-fond.webp?v=${IMGV}`, cal=n=>`/img/calques/${I.theme}-${n}.webp?v=${IMGV}`;
+  const CAL=new Set(I.calques||[]), hasCal=n=>CAL.has(String(n)), fond=`/img/hd/${I.theme}-ciel.webp?v=${IMGV}`, cal=n=>`/img/calques/${I.theme}-${n}.webp?v=${IMGV}`;
   const isDark=n=>(T.scenes[n-1]||[])[4]==='dark';
 
   /* ---------- icônes ---------- */

diff --git a/business/tools/vignette-papier.py b/business/tools/vignette-papier.py
@@ -1,0 +1,31 @@
+"""Coupure droite dans une scène de thème clair (un papier uni collé au-dessus d'une scène d'intérieur, coupée net) :
+le haut de la scène se fond dans le papier, en vignette, avec un bord en arc irrégulier (CLAUDE.md, règle 18 : jamais de
+coupure droite ; « en vignette sur le papier si besoin »). Solution d'attente, sans Gemini, avant de repeindre la scène.
+Usage : python3 business/tools/vignette-papier.py <thème>-<n> [...]   (réécrit img/hd et img/themes)"""
+import os, sys
+import numpy as np
+from PIL import Image
+
+IMG = os.path.join(os.path.dirname(os.path.dirname(os.path.abspath(__file__))), 'landing', 'img')
+
+for key in sys.argv[1:]:
+    p = os.path.join(IMG, 'hd', key + '.webp')
+    im = Image.open(p).convert('RGB'); W, H = im.size; a = np.asarray(im).astype(np.float32)
+    # la coupure : la ligne où presque toute la largeur change d'un coup
+    d = np.abs(np.diff(a, axis=0)).sum(2)
+    frac = (d > 40).mean(1); s = int(np.argmax(frac[int(H * .3):int(H * .75)])) + int(H * .3)
+    # le papier : au-dessus de la coupure, le papier d'origine ; dessous, la bande de papier juste au-dessus, reprise en
+    # aller-retour (papier uni : pas de dégradé à inverser), sans étirement (il faisait des stries verticales)
+    b = round(.1 * H); band = a[s - 4 - b:s - 4]; reps = [band if i % 2 == 0 else band[::-1] for i in range(H // b + 2)]
+    papier = a.copy(); papier[s - 4:] = np.concatenate(reps)[:H - s + 4]
+    # bord de la vignette : un arc (la scène garde plus de hauteur au centre), une ondulation lente, un fondu large
+    x = np.linspace(-1, 1, W)
+    rng = np.random.default_rng(7); ond = sum(np.sin(x * f * np.pi + rng.uniform(0, 6)) / f for f in (2.3, 4.1, 7.3)) * .012 * H
+    bord = s + .07 * H * x ** 2 + ond                    # là où la scène commence à apparaître
+    F = .11 * H                                          # hauteur du fondu
+    y = np.arange(H)[:, None]
+    t = np.clip((y - bord[None, :]) / F, 0, 1); al = (t * t * (3 - 2 * t))[..., None]
+    out = Image.fromarray((papier * (1 - al) + a * al).clip(0, 255).astype(np.uint8))
+    out.save(p, 'WEBP', quality=80, method=6)
+    out.resize((540, 954), Image.LANCZOS).save(os.path.join(IMG, 'themes', key + '.webp'), 'WEBP', quality=82, method=6)
+    print(key, f'coupure à {s / H:.0%}, fondue en vignette')

diff --git a/business/tools/ciel.py b/business/tools/ciel.py
@@ -1,0 +1,28 @@
+"""Ciel nu des calques : le fond d'un thème (<thème>-fond.webp) porte un jardin en bas (fleurs, sable, lanternes). Posé fixe
+derrière les sujets détourés, ce bas restait visible sous chaque scène et traçait une ligne droite (bord du sable) au
+défilement. Le décor des calques est donc le ciel seul : la bande calme du haut du fond, étirée sur toute la hauteur
+(le dégradé du ciel reste continu, jamais de miroir). Sans Gemini.
+Usage : python3 business/tools/ciel.py <thème> [...]   ->  img/hd/<thème>-ciel.webp et img/lieux/<thème>-ciel.webp"""
+import os, sys
+import numpy as np
+from PIL import Image, ImageFilter
+from scipy import ndimage
+
+IMG = os.path.join(os.path.dirname(os.path.dirname(os.path.abspath(__file__))), 'landing', 'img')
+
+
+def haut_du_jardin(im):
+    a = np.asarray(im.convert('L').resize((270, 477))).astype(float)
+    g = np.abs(ndimage.sobel(a, 1)) + np.abs(ndimage.sobel(a, 0))
+    sm = np.convolve(np.array([np.percentile(r, 97) for r in g]), np.ones(9) / 9, 'same')
+    return next((i for i in range(120, 477) if sm[i] > 45), 477) / 477
+
+
+for k in sys.argv[1:]:
+    im = Image.open(os.path.join(IMG, 'hd', k + '-fond.webp')).convert('RGB'); W, H = im.size
+    y = max(.4, haut_du_jardin(im) - .03)
+    # un léger flou vertical sur la bande étirée : les étoiles ne deviennent pas des traits
+    ciel = im.crop((0, 0, W, round(y * H))).resize((W, H), Image.LANCZOS).filter(ImageFilter.GaussianBlur(1.2))
+    ciel.save(os.path.join(IMG, 'hd', k + '-ciel.webp'), 'WEBP', quality=80, method=6)
+    ciel.resize((540, 954), Image.LANCZOS).save(os.path.join(IMG, 'lieux', k + '-ciel.webp'), 'WEBP', quality=82, method=6)
+    print(k, f'ciel jusqu’à {y:.0%} de la hauteur')

diff --git a/CLAUDE.md b/CLAUDE.md
@@ -65,6 +65,9 @@ faire-part, vitrine, aperçus, images d'aperçu WhatsApp (og.jpg), images géné
     En partant, le bas du sujet (le sol) traçait une ligne droite sur le fond (« des lignes nettes, c'est moche ») : le
     cadre d'un calque déborde d'un quart d'écran sur la suite et ce débord est fondu (`CALF` dans `layoutStrip()`, même
     chose dans `cpLayout()`), le sol s'efface en remontant. Le dernier cadre ne déborde pas.
+    Derrière les calques, le décor est le **ciel nu** (`<thème>-ciel.webp`, `tools/ciel.py` : le haut calme du fond étiré
+    sur toute la hauteur), pas `<thème>-fond.webp` : son jardin du bas (fleurs, sable, lanternes) restait fixe sous chaque
+    scène et son bord de sable faisait une ligne droite. `-fond` reste l'image des écrans simples.
     Pas de `will-change: transform` sur le sujet : dans un cadre collant masqué, Chromium ne le repeignait pas après un saut.
     `build-site.py` liste les calques existants (`inv.calques`, `window.SCEAU_CALQUES`) ; sans calque, une scène garde
     l'ancien rendu plein cadre. Un calque échoué se régénère, on ne réduit pas le sujet pour le faire tenir.
@@ -251,8 +254,11 @@ faire-part, vitrine, aperçus, images d'aperçu WhatsApp (og.jpg), images géné
     les guirlandes des variantes ; leur grand tableau s'ouvre sur leur scène 1 et reprend les guirlandes du riad
     (`hero_hd`, `bands_from` dans long-assets.py) ; la scène se fond sur 40 % de sa hauteur (`hero.fade`) dans le vrai fond du thème, sans teinter ce fond de la couleur du sol (Émeraude finissait sur un taupe « coupé, moche »). Dès que le quota revient : `long-gen.py /tmp/longraw alhambra desert
     emeraude` puis `long-assets.py`, et les calques (`calques.py`).
+    **Nuit du désert et Émeraude & or sont retirés** (`pending:true`, 5 octobre 2026 : « c'est pas encore propre ») ;
+    au lancement, le configurateur propose le riad et l'Andalou.
     **À repeindre en priorité** (coupure droite dans l'image, un ciel collé sur une scène d'intérieur, relevée par
-    l'utilisateur le 5 octobre 2026) : `alhambra-2`, `alhambra-4`, `desert-2`, `emeraude-1` à `emeraude-4`
+    l'utilisateur le 5 octobre 2026) : `alhambra-2`, `alhambra-4` (en attendant, fondues en vignette sur le papier par
+    `tools/vignette-papier.py`), puis, pour remettre les deux variantes, `desert-2`, `emeraude-1` à `emeraude-4`
     (`variantes-nuits.py <thème> --only … --force`, consigne : scène d'un seul tenant, ciel ou mur qui descend derrière
     le sujet). Rien d'autre : l'utilisateur veut qu'on reste concentré, pas qu'on régénère pour régénérer.
 33. **L'ouverture a son propre onglet** (étape 2 sur 5 : thème, ouverture, écrans, détails, récapitulatif), avec la
